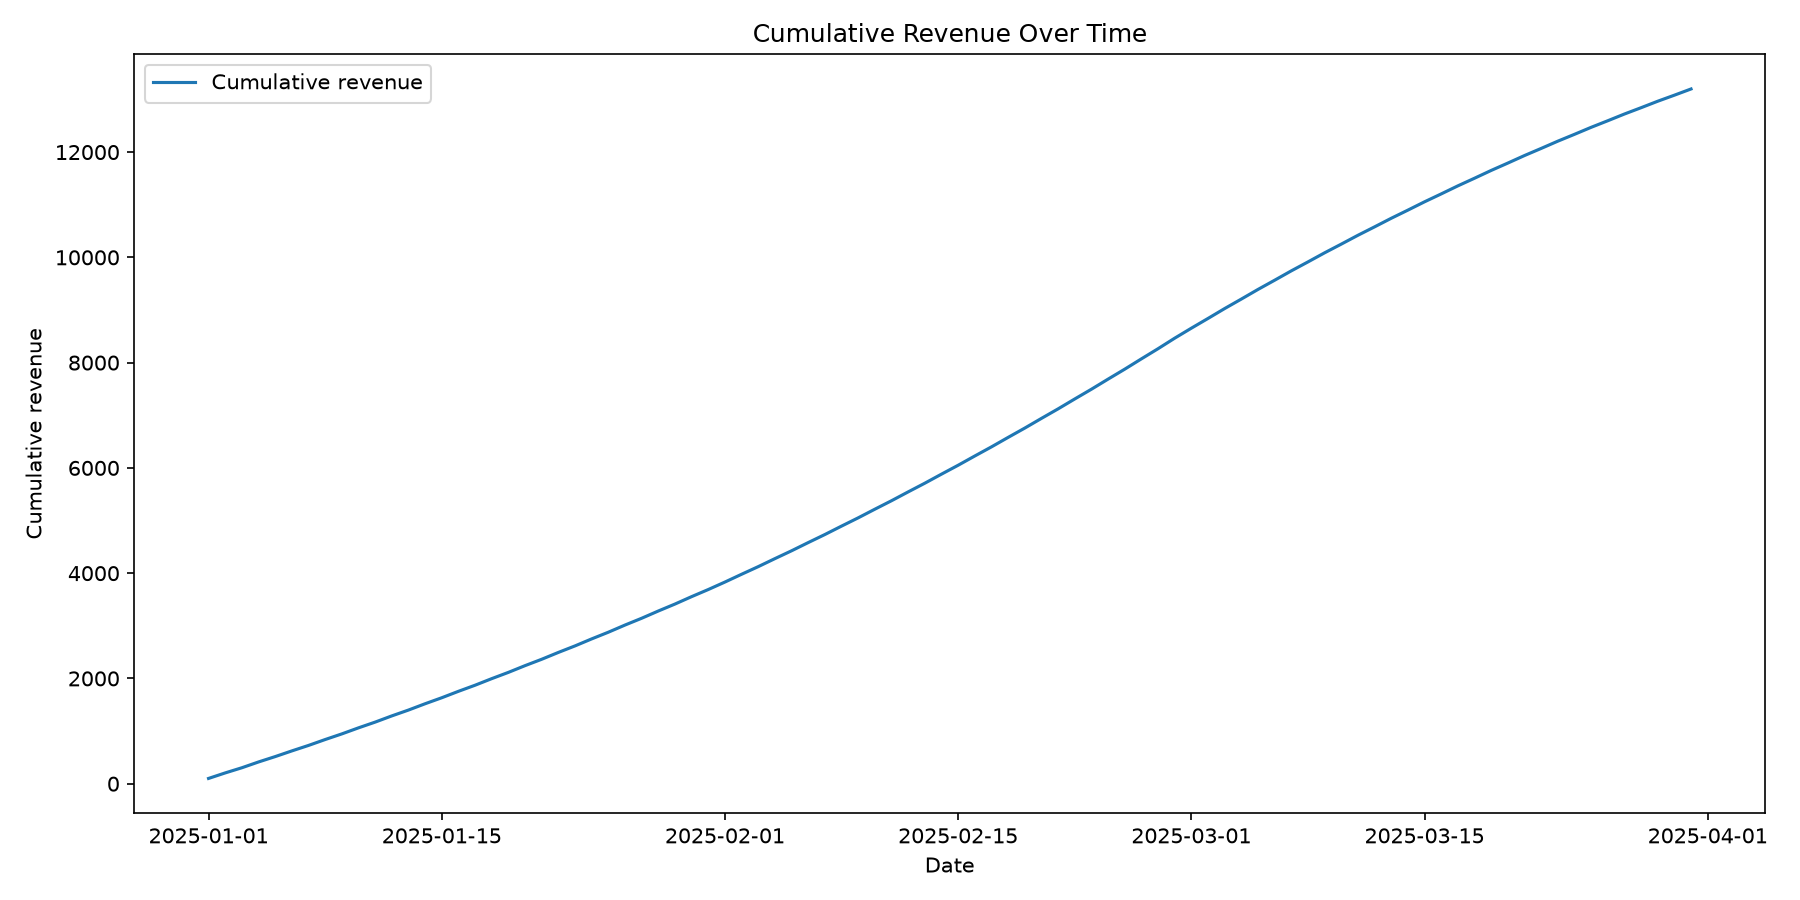
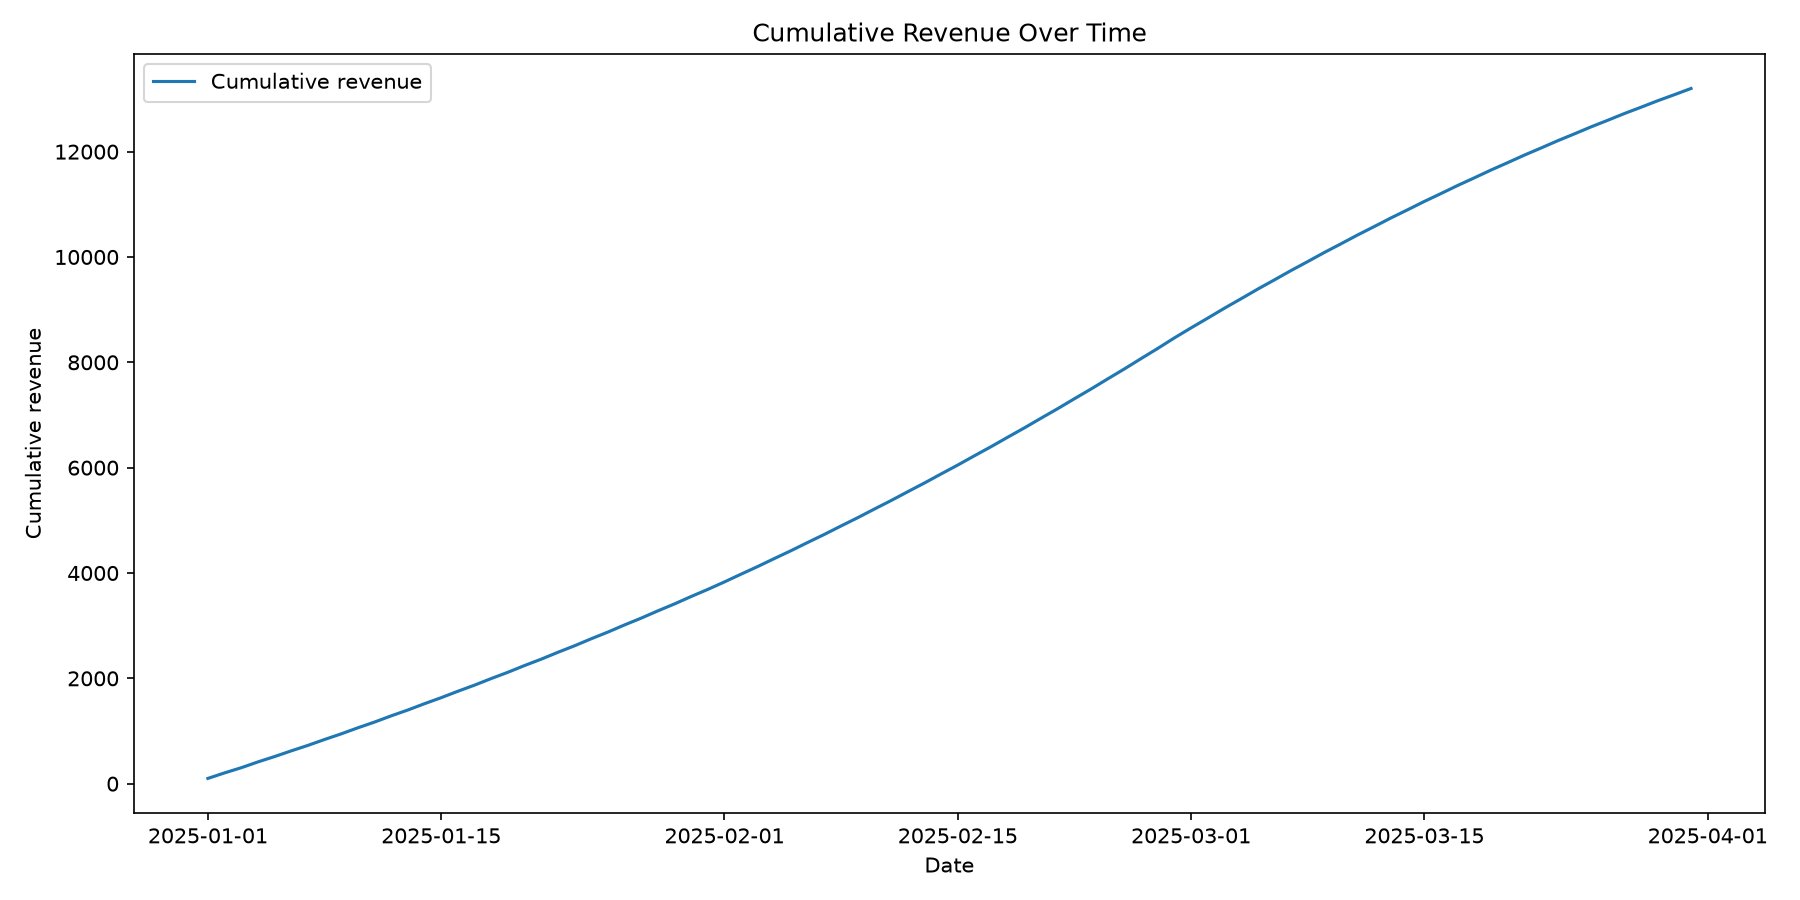
DataProductDocumentation&Delivery

diff --git a/pipeline.py b/pipeline.py
@@ -1,0 +1,94 @@
+"""End-to-end data pipeline: ingest, clean, aggregate, and output."""
+
+from __future__ import annotations
+
+import argparse
+import json
+import logging
+from pathlib import Path
+
+import pandas as pd
+
+logging.basicConfig(level=logging.INFO, format="%(asctime)s [%(levelname)s] %(message)s")
+logger = logging.getLogger(__name__)
+
+
+def ingest(path: str) -> pd.DataFrame:
+    logger.info("Ingesting: %s", path)
+    df = pd.read_csv(path)
+    logger.info("Rows ingested: %s", len(df))
+    return df
+
+
+def clean(df: pd.DataFrame) -> pd.DataFrame:
+    logger.info("Cleaning...")
+    required_columns = {"customer_id", "order_id", "amount", "segment"}
+    missing = sorted(required_columns - set(df.columns))
+    if missing:
+        raise ValueError(f"Missing required columns for cleaning: {missing}")
+
+    initial = len(df)
+    cleaned = df.dropna(subset=["customer_id", "amount"]).copy()
+    cleaned["amount"] = pd.to_numeric(cleaned["amount"], errors="coerce")
+    cleaned = cleaned.dropna(subset=["amount"])
+    cleaned = cleaned[cleaned["amount"] > 0]
+    logger.info("Cleaned: %s -> %s", initial, len(cleaned))
+    return cleaned
+
+
+def aggregate(df: pd.DataFrame) -> pd.DataFrame:
+    logger.info("Aggregating...")
+    agg = (
+        df.groupby("segment", as_index=False)
+        .agg(revenue=("amount", "sum"), orders=("order_id", "count"))
+        .sort_values("segment")
+    )
+    logger.info("Segments: %s", len(agg))
+    return agg
+
+
+def output(cleaned_df: pd.DataFrame, agg_df: pd.DataFrame, out_dir: str) -> None:
+    output_dir = Path(out_dir)
+    output_dir.mkdir(parents=True, exist_ok=True)
+    cleaned_path = output_dir / "cleaned.csv"
+    aggregated_path = output_dir / "aggregated.csv"
+    cleaned_df.to_csv(cleaned_path, index=False)
+    agg_df.to_csv(aggregated_path, index=False)
+    logger.info("Output written to: %s", output_dir)
+    logger.info("Pipeline complete")
+
+
+def load_config(config_path: str | None) -> dict[str, str]:
+    if not config_path:
+        return {}
+    with open(config_path, "r", encoding="utf-8") as config_file:
+        config = json.load(config_file)
+    if not isinstance(config, dict):
+        raise ValueError("Config must be a JSON object")
+    return config
+
+
+def parse_args() -> argparse.Namespace:
+    parser = argparse.ArgumentParser(description="Run the ingestion-clean-aggregation pipeline.")
+    parser.add_argument("--config", help="Path to a JSON config file with 'input' and/or 'output'.")
+    parser.add_argument("--input", help="Path to input CSV file.")
+    parser.add_argument("--output", help="Directory to write output CSV files.")
+    args = parser.parse_args()
+
+    config = load_config(args.config)
+    input_path = args.input or config.get("input")
+    output_path = args.output or config.get("output") or "output"
+    if not input_path:
+        parser.error("Input path is required via --input or config file key 'input'.")
+
+    args.input = input_path
+    args.output = output_path
+    return args
+
+
+if __name__ == "__main__":
+    cli_args = parse_args()
+    raw = ingest(cli_args.input)
+    cleaned = clean(raw)
+    aggregated = aggregate(cleaned)
+    output(cleaned, aggregated, cli_args.output)

diff --git a/README.md b/README.md
@@ -1,49 +1,210 @@
-# Viewer Engagement & Retention Analytics Platform
+# Subscription Statistics Analytics Platform
 
-## SW2627 - Data Product - Subscription Statistics
+Interactive Streamlit dashboard and reproducible Python analysis workflows for
+understanding subscription revenue, customer segments, churn, retention, and
+transaction performance. The project includes data intake validation, an
+end-to-end CSV pipeline, KPI calculations, segment analysis, time-series
+analysis, and generated reports in `output/`.
 
-A data analytics platform that identifies viewer engagement patterns associated with subscriber retention and presents actionable insights to support data-driven content acquisition decisions.
+## Dataset
 
----
+The repository contains small CSV fixtures under `data/raw/` so the project can
+be run without external credentials or data downloads:
 
-## 1. Project Overview
+| File | Purpose | Main columns |
+| --- | --- | --- |
+| `sample.csv` | Intake-validation example | `customer_id`, `customer_name`, `transaction_amount`, `transaction_date` |
+| `test.csv` | End-to-end pipeline example | `customer_id`, `order_id`, `amount`, `date`, `segment` |
+| `kpi_transactions_sample.csv` | KPI calculations | `customer_id`, `transaction_date`, `amount`, `customer_type`, `product`, `payment_status`, `acquisition_cost` |
+| `segment_sample.csv` | Segment analysis | `customer_id`, `customer_type`, `product`, `revenue`, `support_tickets`, `churn` |
+| `segment_profile_sample.csv` | Retention strategy analysis | `customer_id`, `customer_type`, `lifetime_value`, `churn`, `support_tickets`, `retention_days` |
+| `daily_revenue_sample.csv` | Trend analysis and dashboard trends | `date`, `revenue`, `orders` |
 
-Subscription-based streaming platforms collect large amounts of viewer engagement data, including:
+The scheduled pipeline expects a CSV with `customer_id`, `order_id`, `amount`,
+`date`, and `segment`. Replace `data/raw/test.csv` with the production input
+when connecting an external ingestion source. The sample data is static; the
+GitHub Actions workflow is scheduled weekly.
 
-- Watch duration
-- Pause frequency
-- Episode completion
-- Episodes watched
-- Viewing frequency
-- Subscription activity
+## Getting Started
 
-However, content acquisition teams often lack a unified analytical system that connects these engagement behaviors with subscriber retention.
+From a fresh checkout, run these four commands:
 
-This project aims to bridge that gap by processing viewer activity data, engineering meaningful engagement metrics, analyzing their relationship with retention, and presenting the findings through an interactive dashboard.
+```bash
+git clone <repository-url>
+cd SW2627-Data-Product-Sub-Stat
+python3 -m venv venv && venv/bin/pip install -r requirements.txt
+venv/bin/streamlit run app.py
+```
 
-### Core Question
+Open the local URL printed by Streamlit (normally
+`http://localhost:8501`). On Windows, use `venv\Scripts\python -m pip install
+-r requirements.txt` and `venv\Scripts\streamlit run app.py`.
 
-> **Which viewer engagement patterns are associated with subscriber retention, and how can these insights help content acquisition teams make better decisions?**
+## Full Usage Guide
 
----
+### Run the dashboard
 
-## 2. Problem Statement
+```bash
+venv/bin/streamlit run app.py
+```
 
-A subscription-based streaming platform captures watch duration, pause frequency, and episode completion data, but acquisition teams still greenlight content without understanding which viewer engagement patterns correlate with retention.
+Use the sidebar to switch between:
 
-The platform may know how many people watched a piece of content, but raw view counts alone do not explain whether the content contributes to sustained subscriber engagement.
+- **Overview**: lifetime value, customers, churn, retention, and segment health.
+- **Trends**: daily revenue, 7-day/30-day rolling averages, and monthly totals.
+- **Data Explorer**: filter customer records and download the filtered CSV.
 
-The project therefore focuses on connecting:
+### Run the end-to-end pipeline
+
+```bash
+venv/bin/python pipeline.py --input data/raw/test.csv --output output
+```
+
+The pipeline ingests the CSV, removes unusable rows, converts `amount` to
+numeric, filters non-positive amounts, aggregates revenue and order counts by
+`segment`, and writes:
+
+- `output/cleaned.csv`
+- `output/aggregated.csv`
+
+Both paths are configurable:
+
+```bash
+venv/bin/python pipeline.py --input path/to/input.csv --output path/to/output
+```
+
+Alternatively, provide a JSON config:
+
+```json
+{"input": "data/raw/test.csv", "output": "output"}
+```
+
+```bash
+venv/bin/python pipeline.py --config pipeline_config.json
+```
+
+### Run analysis scripts
+
+Run these from the repository root:
+
+```bash
+venv/bin/python scripts/validate_intake.py
+venv/bin/python scripts/time_series_analysis.py
+venv/bin/python scripts/segment_analysis.py
+venv/bin/python scripts/segment_strategy_analysis.py
+venv/bin/python kpis/kpi_functions.py
+```
+
+Each script writes its reports or charts to `output/`.
+
+### Validate a processed CSV
+
+```bash
+venv/bin/python validate_data.py data/processed/cleaned_data.csv
+```
+
+The validator checks required columns, numeric `amount`, minimum row count,
+and fully-null columns. It exits with code `1` when a check fails.
+
+## Pipeline Architecture
 
 ```text
-Viewer Activity
-       ↓
-Engagement Metrics
-       ↓
-Viewer Segmentation
-       ↓
-Retention Analysis
-       ↓
-Content Insights
-       ↓
-Acquisition Decisions
+CSV upload / scheduled input
+        |
+        v
+Ingestion: read the source CSV and record row counts
+        |
+        v
+Cleaning: remove missing customer/amount rows, cast amount to numeric,
+          remove invalid and non-positive amounts
+        |
+        v
+Aggregation: group by segment and calculate revenue and order count
+        |
+        v
+Output: write cleaned.csv and aggregated.csv to the selected output directory
+        |
+        v
+Analysis: calculate KPI, segment, correlation, and time-series reports
+        |
+        v
+Dashboard: load prepared CSVs, calculate display metrics, and render charts
+        |
+        v
+Alerts: compare KPI values with configured target ranges and label PASS/ALERT
+        |
+        v
+Reports: save CSV, JSON, TXT, and PNG artifacts for review
+```
+
+The weekly GitHub Actions workflow in
+`.github/workflows/pipeline.yml` runs the pipeline on Mondays at 06:00 UTC and
+can also be started manually with **Run workflow**.
+
+## Derived Features
+
+The following table documents engineered columns created by the pipeline and
+analysis code. Display-only formatted values are included where they are
+written into output tables.
+
+| Column | Type | Description | Example |
+| --- | --- | --- | --- |
+| `amount` | float | Input amount coerced to numeric during cleaning | `120.50` |
+| `revenue` | float | Sum of cleaned amounts by segment or period | `370.50` |
+| `orders` | integer | Count of orders by segment or day | `2` |
+| `revenue_ma7` | float | Trailing seven-observation revenue mean | `108.43` |
+| `revenue_ma30` | float | Trailing thirty-observation revenue mean | `112.76` |
+| `revenue_sum` | float | Weekly/monthly revenue total | `3,245.00` |
+| `orders_count` | integer | Number of non-null order observations in a period | `42` |
+| `revenue_mean` | float | Mean revenue for a week/month | `115.89` |
+| `mom_change_pct` | float | Percentage change from the previous month | `4.25` |
+| `churn_rate` | float | Mean churn outcome within a customer segment | `0.20` |
+| `total_revenue` | float | Sum of revenue within a segment | `12,500.00` |
+| `customer_count` | integer | Number of customer records in a segment | `25` |
+| `avg_support_tickets` | float | Mean support tickets per segment | `3.40` |
+| `avg_ltv` | float | Mean lifetime value per segment | `42,500.00` |
+| `avg_tickets` | float | Segment mean support-ticket count in strategy analysis | `3.40` |
+| `avg_retention` | float | Mean retention days per segment | `245.00` |
+| `count` | integer | Segment record count in strategy analysis | `25` |
+| `ltv_rank` | float | Dense rank of segments by average lifetime value | `1.0` |
+| `churn_rank` | float | Dense rank of segments by churn rate | `2.0` |
+| `segment_share_pct` | float | Segment records as a percentage of all records | `33.33` |
+| `avg_ltv_display` | string | Currency-formatted average LTV for reports | `"$42,500"` |
+| `churn_rate_display` | string | Percentage-formatted churn rate for reports | `"20.0%"` |
+| `avg_tickets_display` | string | Formatted average support tickets | `"3.40"` |
+| `avg_retention_display` | string | Formatted retention duration | `"245 days"` |
+| `segment_share_display` | string | Formatted segment share | `"33.3%"` |
+| `revenue_contribution` | float | Segment revenue as a percentage of total segment revenue | `48.75` |
+
+KPI functions also derive scalar/report values: monthly active users (distinct
+customers in the latest 30-day window), revenue per customer, churn rate,
+payment success rate, customer acquisition cost, total revenue, trend direction,
+trend magnitude, and PASS/ALERT KPI status. These are saved in JSON or report
+fields rather than as DataFrame columns.
+
+## Known Limitations
+
+- The included datasets are synthetic/sample fixtures, not live production data.
+- The scheduled workflow runs weekly; the dashboard does not provide real-time
+  ingestion.
+- The pipeline accepts CSV input and expects exact column names.
+- The pipeline filters missing or non-positive amounts but does not deduplicate
+  orders or reconcile refunds.
+- Date values are parsed only in the analyses that require dates; invalid dates
+  are removed by those loaders.
+- Churn is assumed to be a binary `0/1` value, and segment churn means the mean
+  of that field.
+- KPI target ranges are static JSON configuration and do not adjust for
+  seasonality.
+- Rolling metrics require enough observations; initial windows are blank.
+- Email delivery and SMTP configuration are not currently implemented by the
+  Streamlit app.
+- GitHub Actions output commits require repository write permission and a
+  workflow token with appropriate access.
+
+## Project Checks
+
+There are currently no committed pytest test cases in `tests/`. The practical
+smoke checks are the pipeline command, the analysis script commands above, and
+opening the Streamlit dashboard. CI data validation is defined in
+`.github/workflows/validate.yml`.
